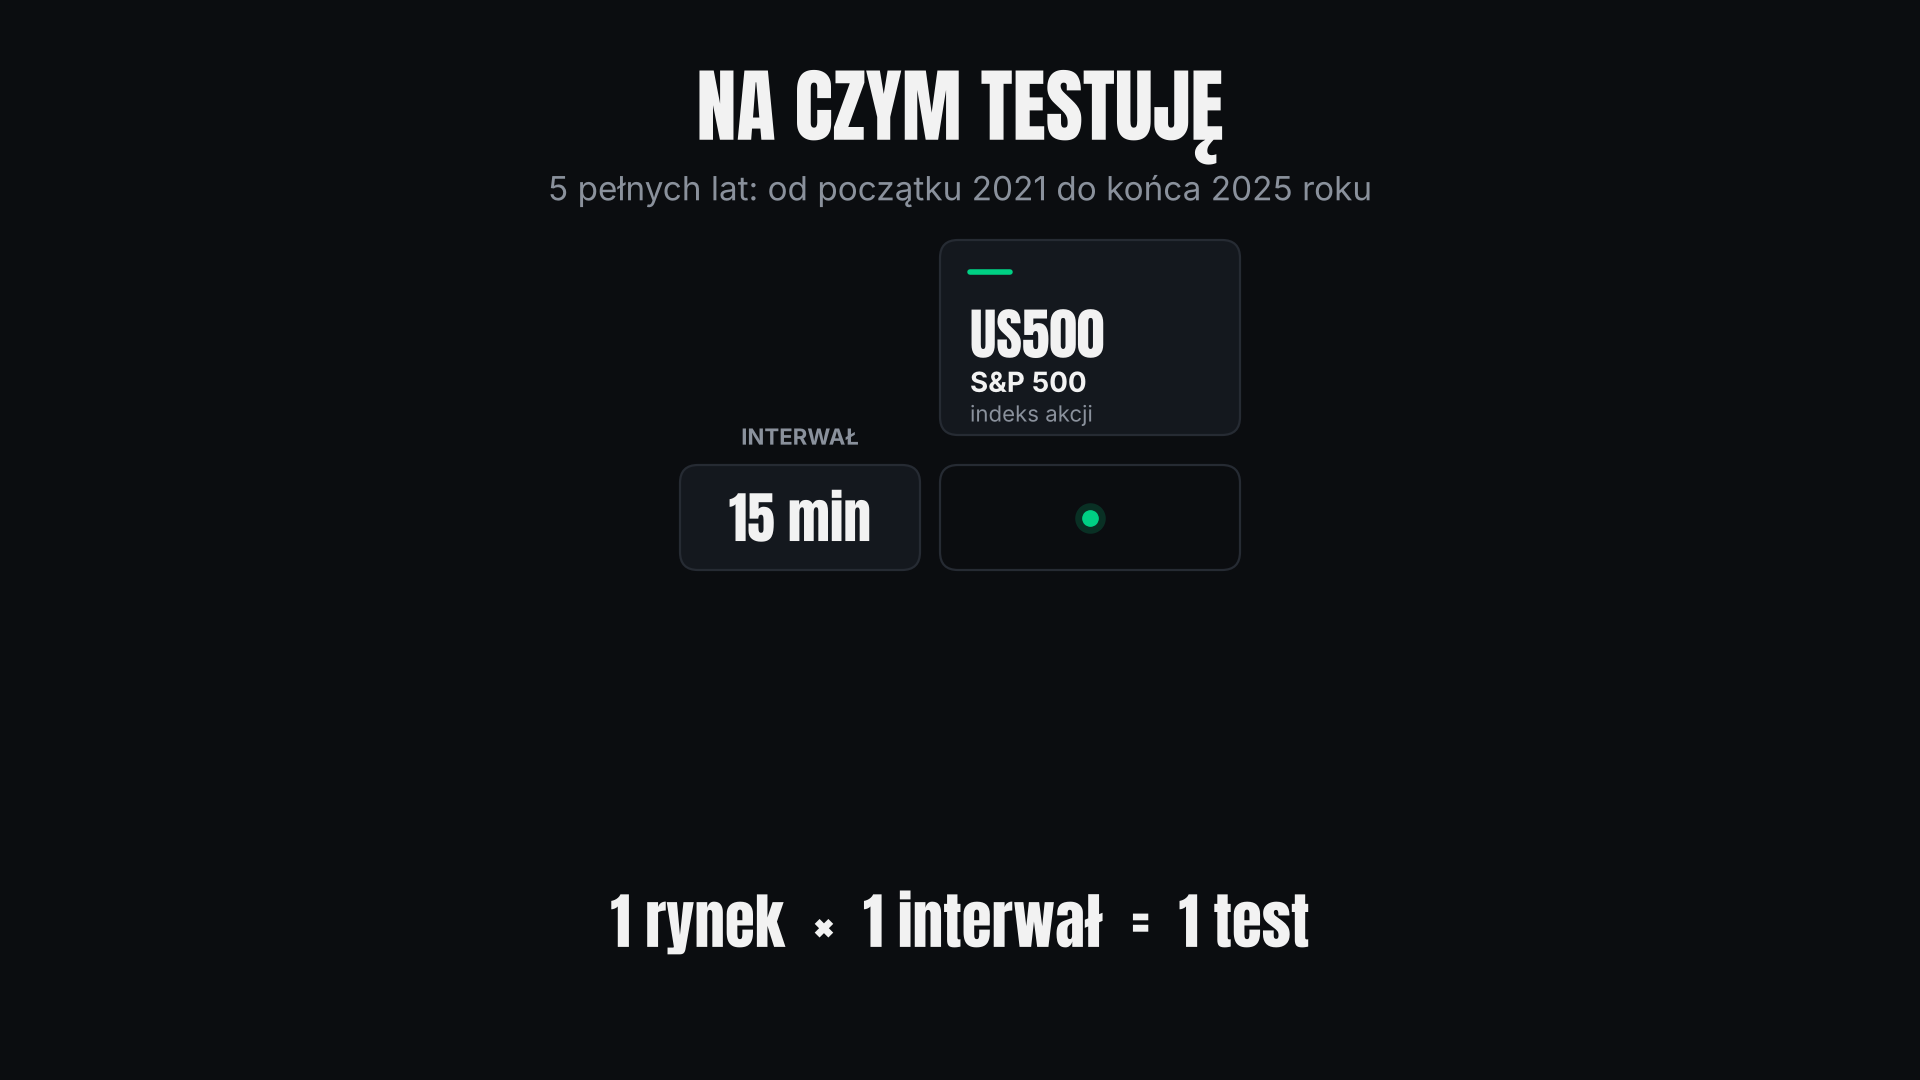
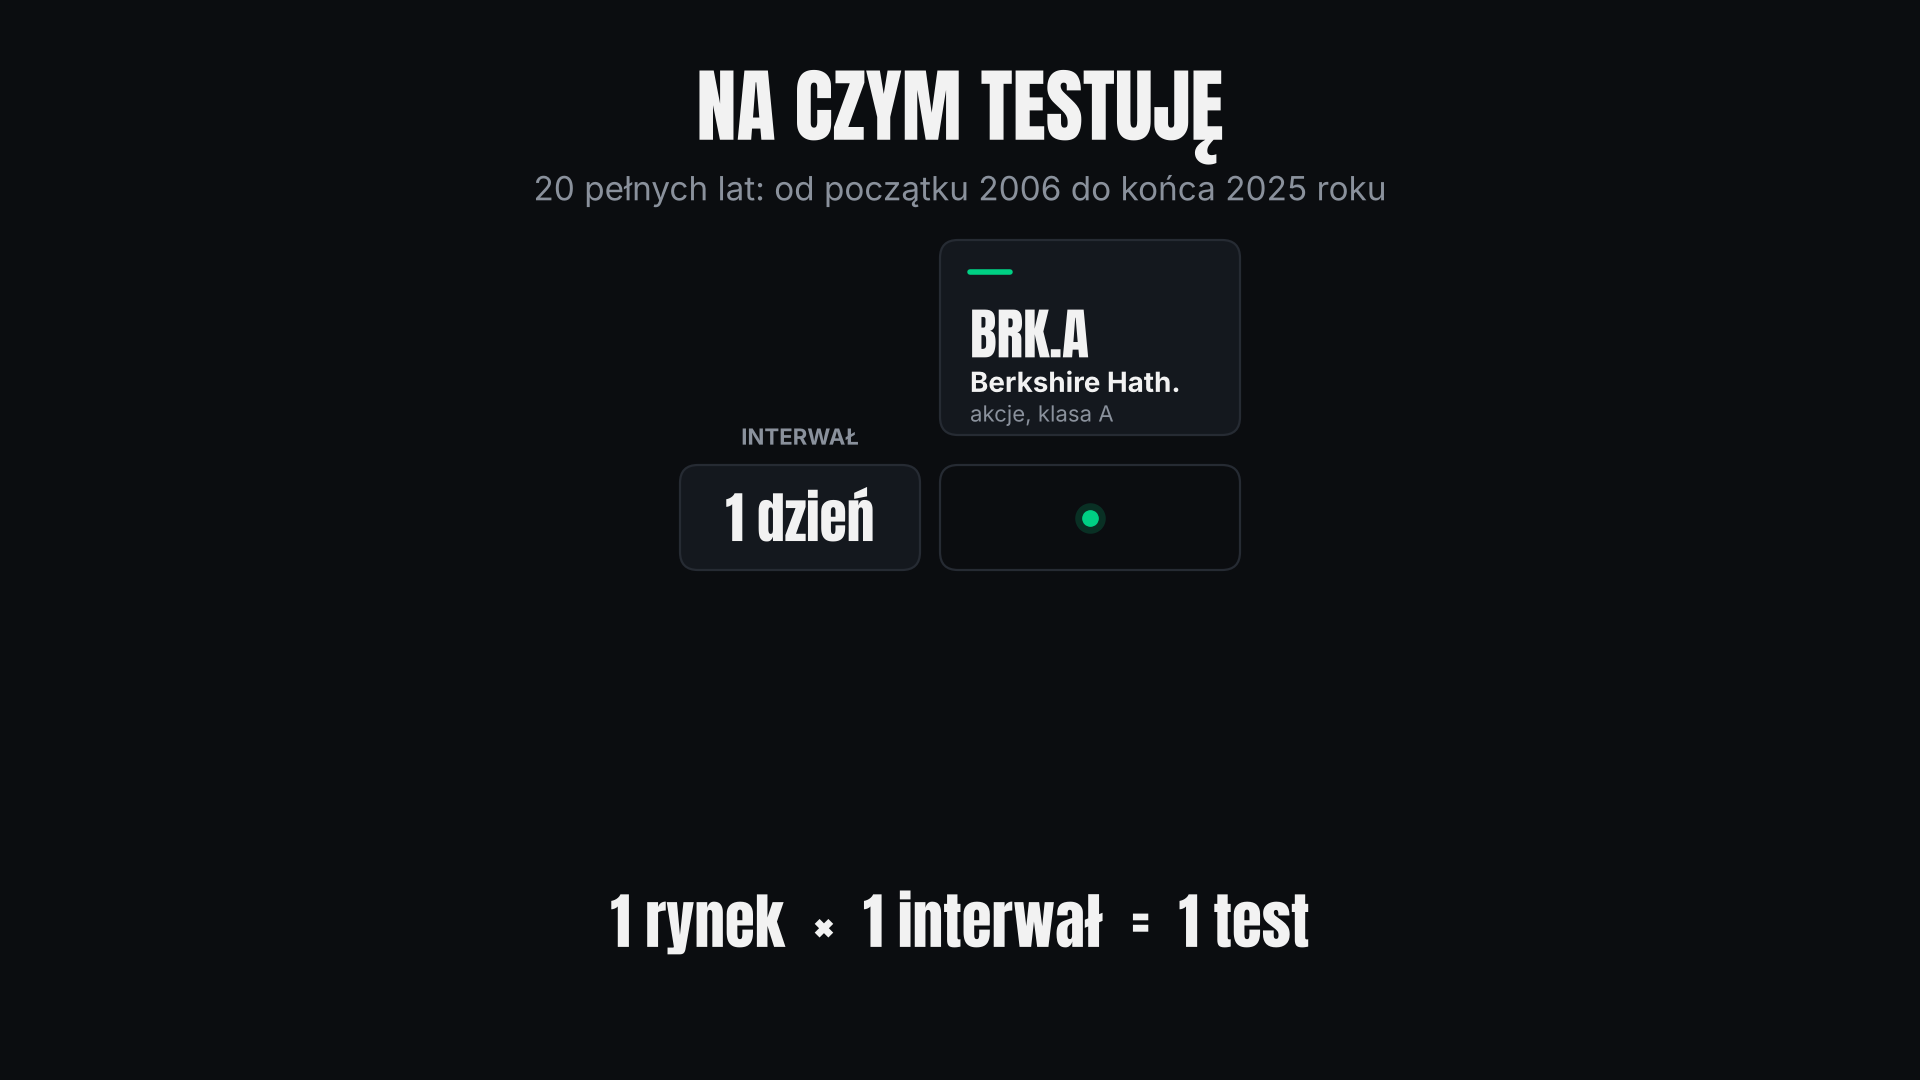
Plansza rynków MOC to MOO: BRK.A, 1 dzień, 2006–2025
Claude-Session: https://claude.ai/code/session_01DmSsWBcz6xw89VZfSA4fdK

Changed region(s): [[0.2812, 0.1528, 0.7188, 0.1833], [0.5, 0.275, 0.625, 0.3972], [0.375, 0.4583, 0.4688, 0.5194]]

diff --git a/narzedzia/plansze_objasniajace/rynki_plansza.py b/narzedzia/plansze_objasniajace/rynki_plansza.py
@@ -40,6 +40,7 @@ ASSET_CARDS = {
     "SPY": ("SPY", "S&P 500", "ETF"),
     "BTCUSDT Spot": ("BTCUSDT", "Bitcoin", "Binance Spot"),
     "BTCUSD": ("BTCUSD", "Bitcoin", "kryptowaluta"),
+    "BRK.A": ("BRK.A", "Berkshire Hath.", "akcje, klasa A"),
 }
 MONTHS = ["stycznia", "lutego", "marca", "kwietnia", "maja", "czerwca", "lipca",
           "sierpnia", "września", "października", "listopada", "grudnia"]
@@ -153,3 +154,7 @@ if __name__ == "__main__":
     plansza(["XAUUSD", "Bitcoin", "EURUSD", "Brent", "US500"], ["5min", "15min", "30min"],
             ROOT / "nagrania" / "TikTok" / "plansza_rynki.png",
             "5 pełnych lat: od początku 2021 do końca 2025 roku")
+    # MOC to MOO: akcje autora (BRK.A) na świecach dziennych, 20 lat
+    # (test_dzienny.py --strategia MOC_MOO --aktywa BRK.A --od 2006-01-01).
+    plansza(["BRK.A"], ["1D"], ROOT / "nagrania" / "Reddit" / "MOC_MOO" / "plansza_rynki.png",
+            period_text("2006-01-01", "2025-12-31"))
